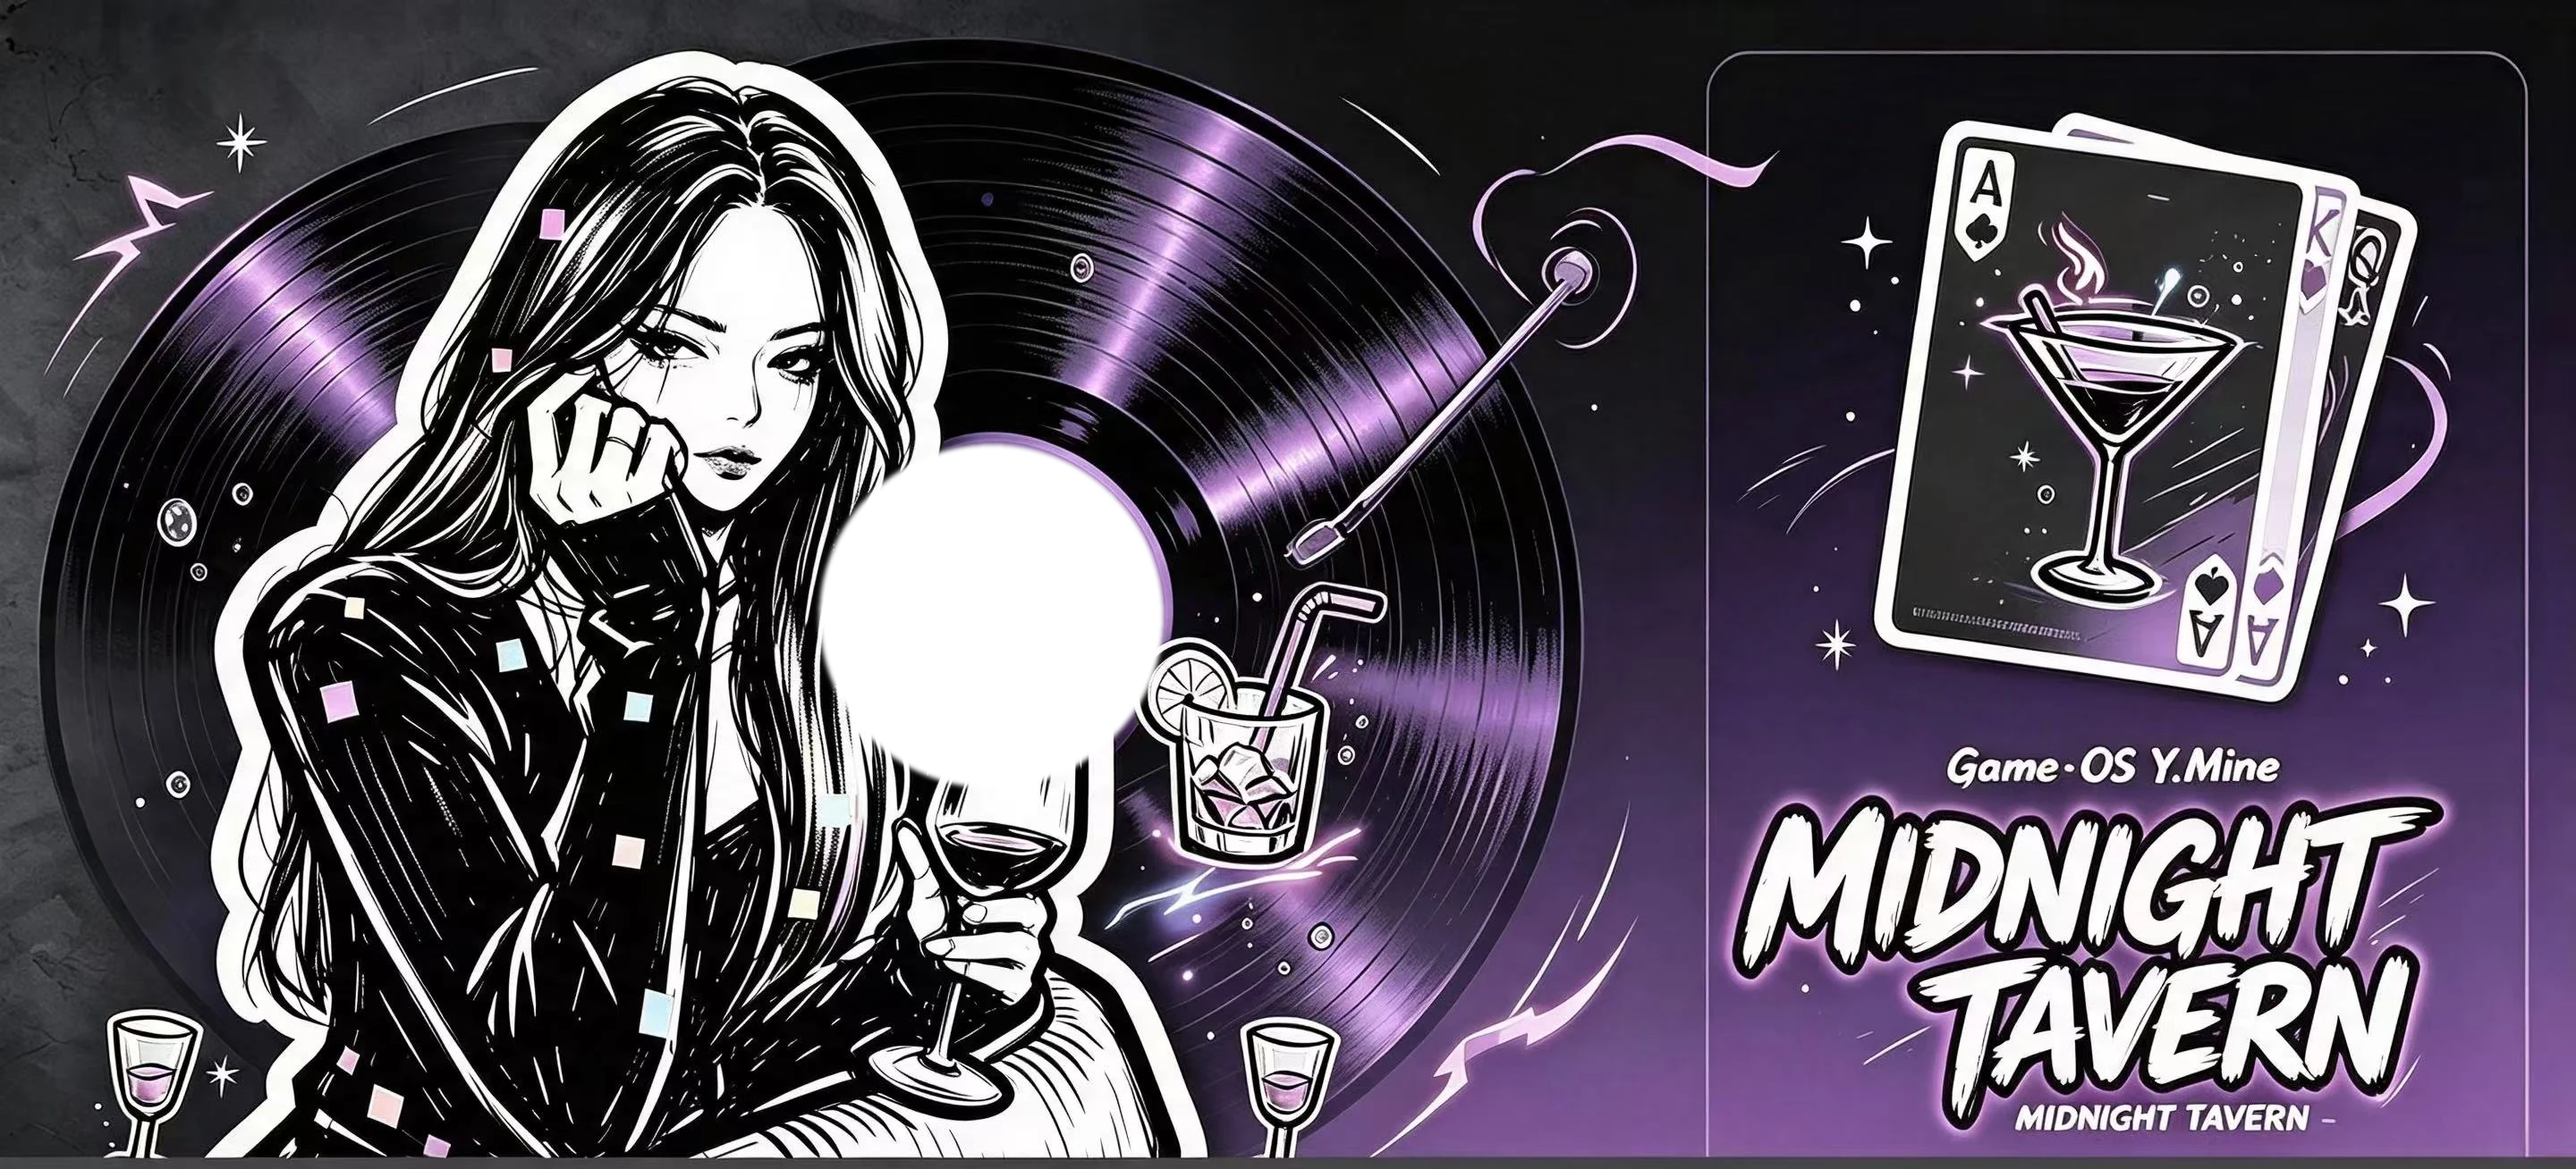
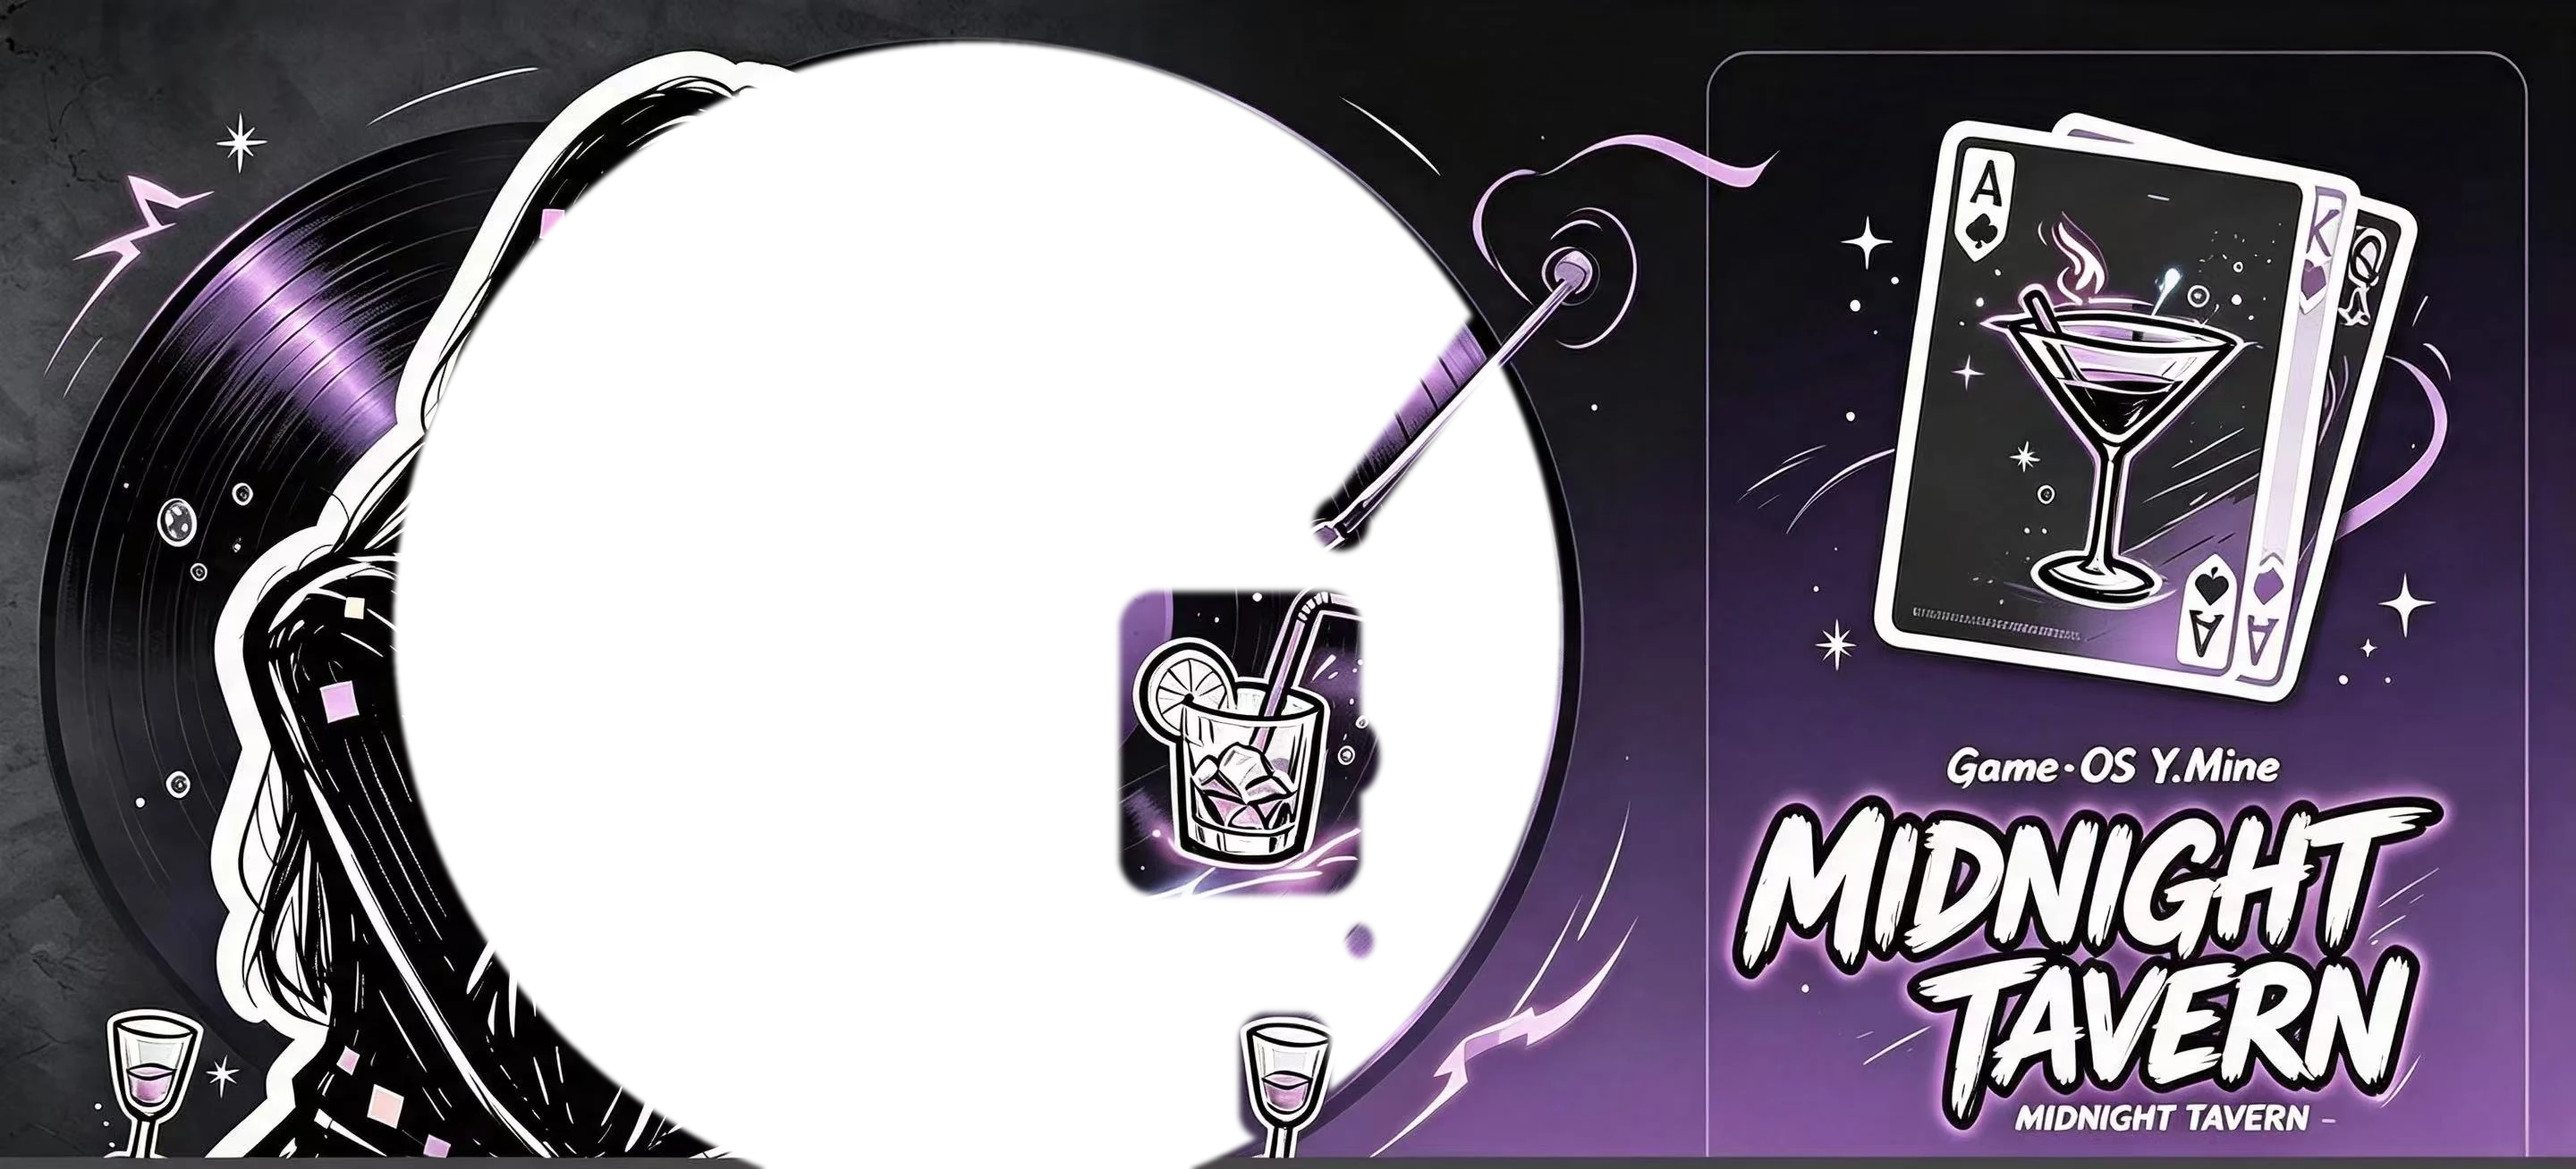
fix: 大唱片整体旋转(沟槽+高光带+中心标签) + 封面contain完整显示 + 按钮挪右下角 + 修复welcome背景被index.css覆盖 + welcome页收紧

Changed region(s): [[0.125, 0.0306, 0.625, 1.0]]

diff --git a/frontend/src/App.css b/frontend/src/App.css
@@ -1,10 +1,11 @@
 body {
-  background: #0d0a1e url('/poker-egg-fullstack/bg/bg_tavern.jpg') center / cover no-repeat fixed;
+  background: #0d0a1e url('/poker-egg-fullstack/bg/bg_tavern.jpg') center / cover no-repeat fixed !important;
 }
 .app-layout {
   min-height: 100vh;
   background:
-    linear-gradient(160deg, rgba(15, 12, 36, 0.78) 0%, rgba(26, 19, 51, 0.72) 50%, rgba(13, 10, 30, 0.82) 100%);
+    linear-gradient(160deg, rgba(15, 12, 36, 0.78) 0%, rgba(26, 19, 51, 0.72) 50%, rgba(13, 10, 30, 0.82) 100%),
+    url('/poker-egg-fullstack/bg/bg_tavern.jpg') center / cover no-repeat fixed;
 }
 
 .app-header {
@@ -107,8 +108,9 @@ body {
   border: 1px solid rgba(167, 139, 250, 0.15) !important;
   border-radius: 24px !important;
   text-align: center;
-  padding: 60px 40px !important;
-  margin-bottom: 40px;
+  padding: 40px 36px !important;
+  margin: 0 auto 32px auto;
+  max-width: 1080px;
 }
 
 .welcome-icon {
@@ -121,6 +123,7 @@ body {
 .welcome-title {
   color: #fff !important;
   font-weight: 800 !important;
+  font-size: 34px !important;
   margin-bottom: 8px !important;
   background: linear-gradient(135deg, #a78bfa, #ef4444);
   -webkit-background-clip: text;
@@ -312,7 +315,7 @@ body {
 }
 
 .welcome-hero-art {
-  flex: 0 0 300px;
+  flex: 0 0 240px;
   transform: rotate(1.5deg);
   border-radius: 20px;
   padding: 10px 10px 6px;
@@ -359,7 +362,8 @@ body {
   cursor: pointer;
   display: flex;
   align-items: flex-end;
-  justify-content: center;
+  justify-content: flex-end;
+  padding: 0 6vw 6vh 0;
   opacity: 1;
   transition: opacity 0.6s ease;
 }
@@ -372,7 +376,6 @@ body {
   flex-direction: column;
   align-items: center;
   gap: 10px;
-  margin-bottom: 7vh;
   animation: coverBreathe 2.2s ease-in-out infinite;
 }
 .cover-enter-btn {
@@ -398,7 +401,7 @@ body {
   50% { transform: scale(1.045); opacity: 0.88; }
 }
 @media (max-width: 768px) {
-  .cover-layer { object-position: 32% center; }
+  .cover-layer { object-fit: cover; object-position: 32% center; }
   .cover-enter-btn { font-size: 17px; letter-spacing: 4px; padding: 10px 26px 10px 30px; }
 }
 
@@ -408,7 +411,7 @@ body {
   inset: 0;
   width: 100%;
   height: 100%;
-  object-fit: cover;
+  object-fit: contain;
   object-position: center;
 }
 .cover-spin {

diff --git a/frontend/src/App.jsx b/frontend/src/App.jsx
@@ -66,11 +66,11 @@ function App() {
     if (!coverVisible) return;
     const calc = () => {
       const cw = window.innerWidth, ch = window.innerHeight;
-      const posX = cw <= 768 ? 0.32 : 0.5;
-      const scale = Math.max(cw / 2880, ch / 1308);
-      const offX = (cw - 2880 * scale) * posX;
+      const mobile = cw <= 768;
+      const scale = mobile ? Math.max(cw / 2880, ch / 1308) : Math.min(cw / 2880, ch / 1308);
+      const offX = (cw - 2880 * scale) * (mobile ? 0.32 : 0.5);
       const offY = (ch - 1308 * scale) * 0.5;
-      setSpinOrigin(`${1108.7 * scale + offX}px ${689.7 * scale + offY}px`);
+      setSpinOrigin(`${1093.3 * scale + offX}px ${699.9 * scale + offY}px`);
     };
     calc();
     window.addEventListener('resize', calc);
